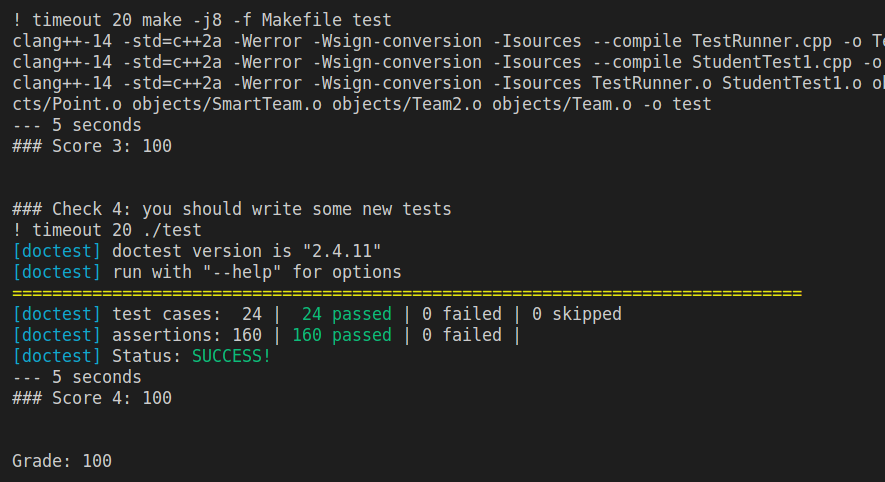
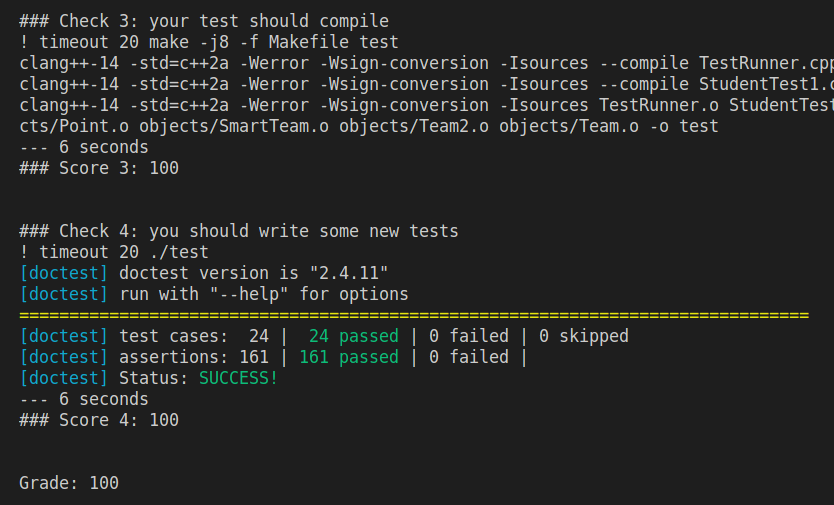
change

Changed region(s): [[0.0, 0.0, 1.0, 0.3423], [0.0, 0.4046, 0.9664, 0.8402], [0.0, 0.9336, 0.1559, 0.9959]]

diff --git a/StudentTest1.cpp b/StudentTest1.cpp
@@ -9,9 +9,10 @@
 #include "sources/Team2.hpp"
 #include <random>
 #include <chrono>
+#include <iostream>
 
 using namespace ariel;
-
+using namespace std;
 //<--------------------Helper Functions-------------------->
 //https://www.geeksforgeeks.org/generate-a-random-float-number-in-cpp/
 double random_float(double min = -100, double max = 100) {
@@ -87,14 +88,14 @@ TEST_SUITE("Point class tests") {
         double half_p = distance / 2;
         double third_p = distance / 3;
 
-       Point p3{Point::moveTowards(p1, p2, half_p)};
-       CHECK_EQ(p3.distance(p2), doctest::Approx(half_p).epsilon(0.001));
+        Point p3{Point::moveTowards(p1, p2, half_p)};
+        CHECK_EQ(p3.distance(p2), doctest::Approx(half_p).epsilon(0.001));
 
-       Point p4{Point::moveTowards(p1, p2, third_p)};
-       CHECK_EQ(p4.distance(p2), doctest::Approx(third_p * 2).epsilon(0.001));
+        Point p4{Point::moveTowards(p1, p2, third_p)};
+        CHECK_EQ(p4.distance(p2), doctest::Approx(third_p * 2).epsilon(0.001));
 
         // There is no such a thing as negative distance
-       CHECK_THROWS_AS(Point::moveTowards(p1, p2, -1),std::invalid_argument);
+        CHECK_THROWS_AS(Point::moveTowards(p1, p2, -1),std::invalid_argument);
     }
 
 }
@@ -169,6 +170,7 @@ TEST_SUITE("Classes initialization tests and Team modification( add(),stillAlive
         auto over = create_cowboy();
         CHECK_THROWS_AS(team1.add(over),std::runtime_error);
         CHECK_THROWS_AS(team2.add(over),std::runtime_error);
+        delete over;
     }
 
     TEST_CASE("Appointing the same captain to different teams") {
@@ -233,6 +235,8 @@ TEST_SUITE("Battle related methods") {
         cowboy->reload();
         shoot(1);
         CHECK_FALSE(target->isAlive()); // Target should be dead
+        delete cowboy;
+        delete target;
     }
 
 
@@ -262,13 +266,18 @@ TEST_SUITE("Battle related methods") {
         }
 
         CHECK_FALSE((old->isAlive() || young->isAlive() || trained->isAlive()));
+
+        delete old ;
+        delete trained ;
+        delete young ;
+        delete cowboy ;
     }
 
     TEST_CASE("Ninjas speeds are different") {
-        OldNinja old{"Bob", Point{random_float() + 15, random_float() + 15}};
-        TrainedNinja trained{"Kung fu panda", Point{random_float() + 15, random_float() + 15}};
-        YoungNinja young{"Karate kid", Point{random_float() + 15, random_float() + 15}};
-        Cowboy cowboy{"Clint", Point{0, 0}};
+        OldNinja old{"Bob", Point{random_float(0) + 15, random_float(0) + 15}};
+        TrainedNinja trained{"Kung fu panda", Point{random_float(0) + 15, random_float(0) + 15}};
+        YoungNinja young{"Karate kid", Point{random_float(0) + 15, random_float(0) + 15}};
+        Cowboy cowboy{"Clint", Point{0, 0}}; 
 
         double old_distance = old.distance(&cowboy);
         double young_distance = young.distance(&cowboy);
@@ -301,7 +310,6 @@ TEST_SUITE("Battle related methods") {
         CHECK(cowboy.isAlive());
 
         old.slash(&cowboy);
-
         CHECK_FALSE(cowboy.isAlive());
 
         YoungNinja ninja{"Bob", Point{-0.5, 0.5}}; // Distance from young is exactly one
@@ -313,12 +321,12 @@ TEST_SUITE("Battle related methods") {
             old.slash(&ninja2);
             young.slash(&ninja2);
         }
+
         for(int i = 0 ; i < 1 ; i++){
             old.slash(&ninja);
             young.slash(&ninja);
         }
         CHECK(ninja.isAlive());
-
         CHECK(ninja2.isAlive());
     }
 
@@ -368,6 +376,7 @@ TEST_SUITE("Battle related methods") {
         auto ninja = create_tninja();
         Team team{cowboy};
         Team2 team2{ninja};
+
         CHECK_THROWS_AS(team.attack(nullptr), std::invalid_argument);
         CHECK_THROWS_AS(team2.attack(nullptr), std::invalid_argument);
     }
@@ -382,6 +391,11 @@ TEST_SUITE("Battle related methods") {
         CHECK_THROWS_AS(yninja->hit(-random_float(1, 100)), std::invalid_argument);
         CHECK_THROWS_AS(oninja->hit(-random_float(1, 100)), std::invalid_argument);
         CHECK_THROWS_AS(tninja->hit(-random_float(1, 100)), std::invalid_argument);
+
+        delete cowboy;
+        delete yninja;
+        delete oninja;
+        delete tninja;
     }
 
     TEST_CASE("Dead cowboy can not reload") {
@@ -395,6 +409,8 @@ TEST_SUITE("Battle related methods") {
         }
 
         CHECK_THROWS_AS(cowboy2->reload(), std::runtime_error);
+        delete cowboy;
+        delete cowboy2;
     }
 
     TEST_CASE("No self harm") {
@@ -407,6 +423,11 @@ TEST_SUITE("Battle related methods") {
         CHECK_THROWS_AS(yninja->slash(yninja), std::runtime_error);
         CHECK_THROWS_AS(oninja->slash(oninja), std::runtime_error);
         CHECK_THROWS_AS(tninja->slash(tninja), std::runtime_error);
+
+        delete cowboy;
+        delete yninja;
+        delete oninja;
+        delete tninja;
     }
 }
 
@@ -445,6 +466,7 @@ TEST_SUITE("Battle simulations") {
 	team2.add(cowboy3);
 
         CHECK_EQ(team2.stillAlive(), 7);
+
         multi_attack(2, team, team2);
         CHECK_FALSE(young_ninja->isAlive()); // Young ninja should be dead
         CHECK((trained_ninja->isAlive() && old_ninja->isAlive() &&
@@ -463,12 +485,9 @@ TEST_SUITE("Battle simulations") {
         CHECK(!young_ninja2->isAlive());
 
         multi_attack(2, team, team2);
-
         CHECK_NOTHROW(team.attack(
                 &team2)); // The entire enemy team will be dead before every cowboy shoots, the attack should stop and not throw an exception
-
         CHECK_FALSE(young_ninja2->isAlive()); // Young ninja should be dead
-
         CHECK_THROWS_AS(team.attack(&team2), std::runtime_error); // Attacking a dead team should throw an exception
     }
 
@@ -495,15 +514,14 @@ TEST_SUITE("Battle simulations") {
         team2.add(team2_c1);
         team2.add(team2_c3);
         team2.add(team2_c4);
+
         multi_attack(4, team1, team2);
 
         // The captain of team2 is the closest enemy to the captain of team1, and therefore should be dead.
         CHECK((!team2_c2->isAlive() && team2_c1->isAlive() && team2_c3->isAlive() && team2_c4->isAlive()));
 
         // At this point, the captain should be team2_c3; hence, the next enemy to be attacked by team2 should team_c3.
-
         multi_attack(6, team2, team1);
-
         CHECK((!team_c3->isAlive() && team_c1->isAlive() && team_c2->isAlive()));
 
 
@@ -517,7 +535,7 @@ TEST_SUITE("Battle simulations") {
 
         //Next captain should be team2_c1, hence, the next enemy to be attacked by team2 should team_cc.
         multi_attack(7, team2, team1);
-//        CHECK((!team_c3->isAlive() && team_c1->isAlive() && !team_c2->isAlive()));
+        CHECK((!team_c3->isAlive() && team_c1->isAlive() && !team_c2->isAlive()));
 
         while (team1.stillAlive() && team2.stillAlive()) {
             team1.attack(&team2);
@@ -648,6 +666,3 @@ TEST_SUITE("Battle simulations") {
         }
     }
 }
-
-
-
